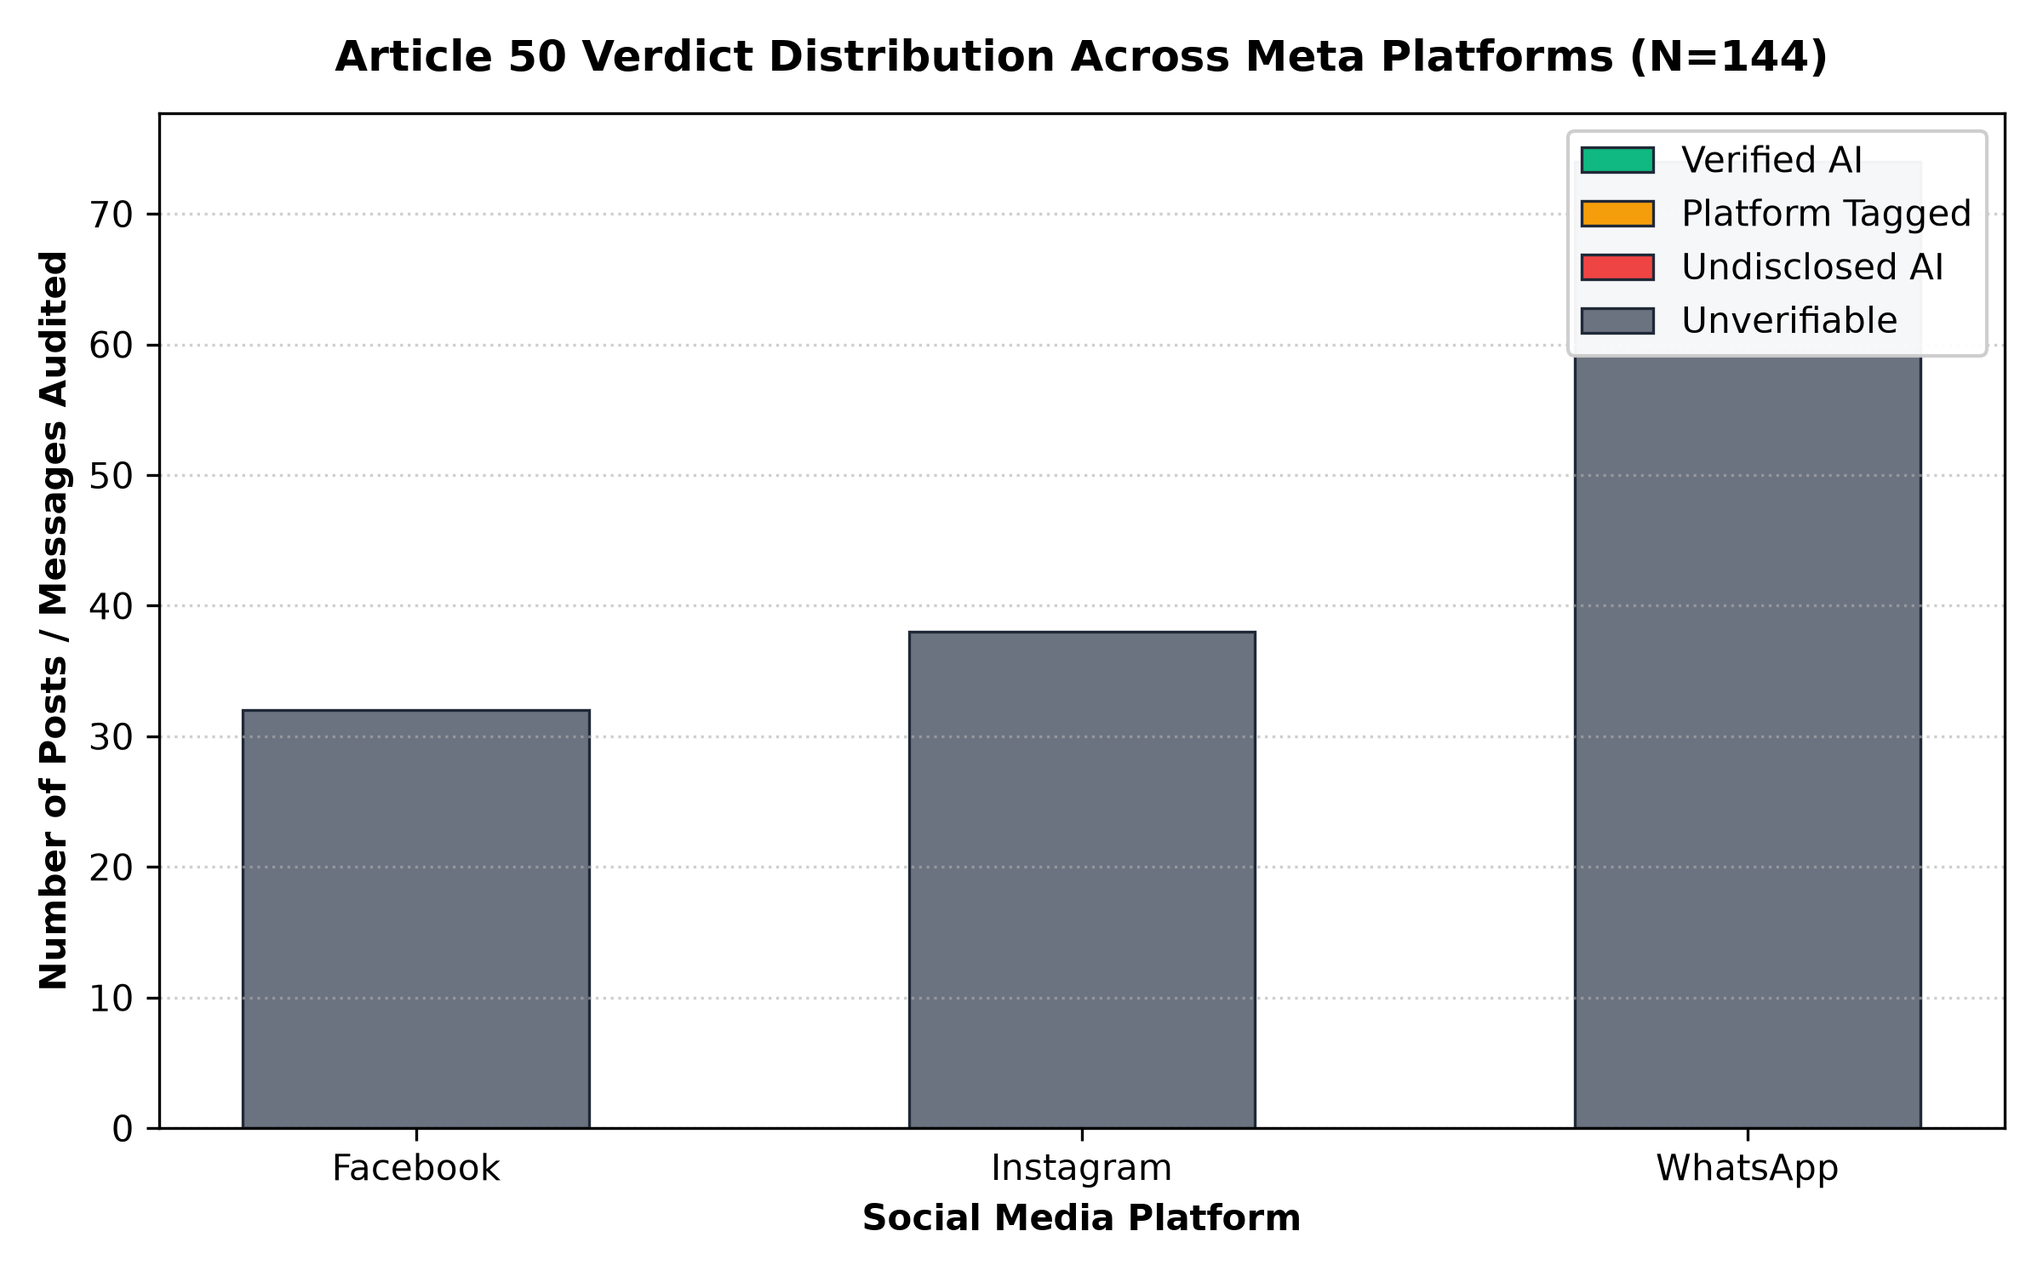
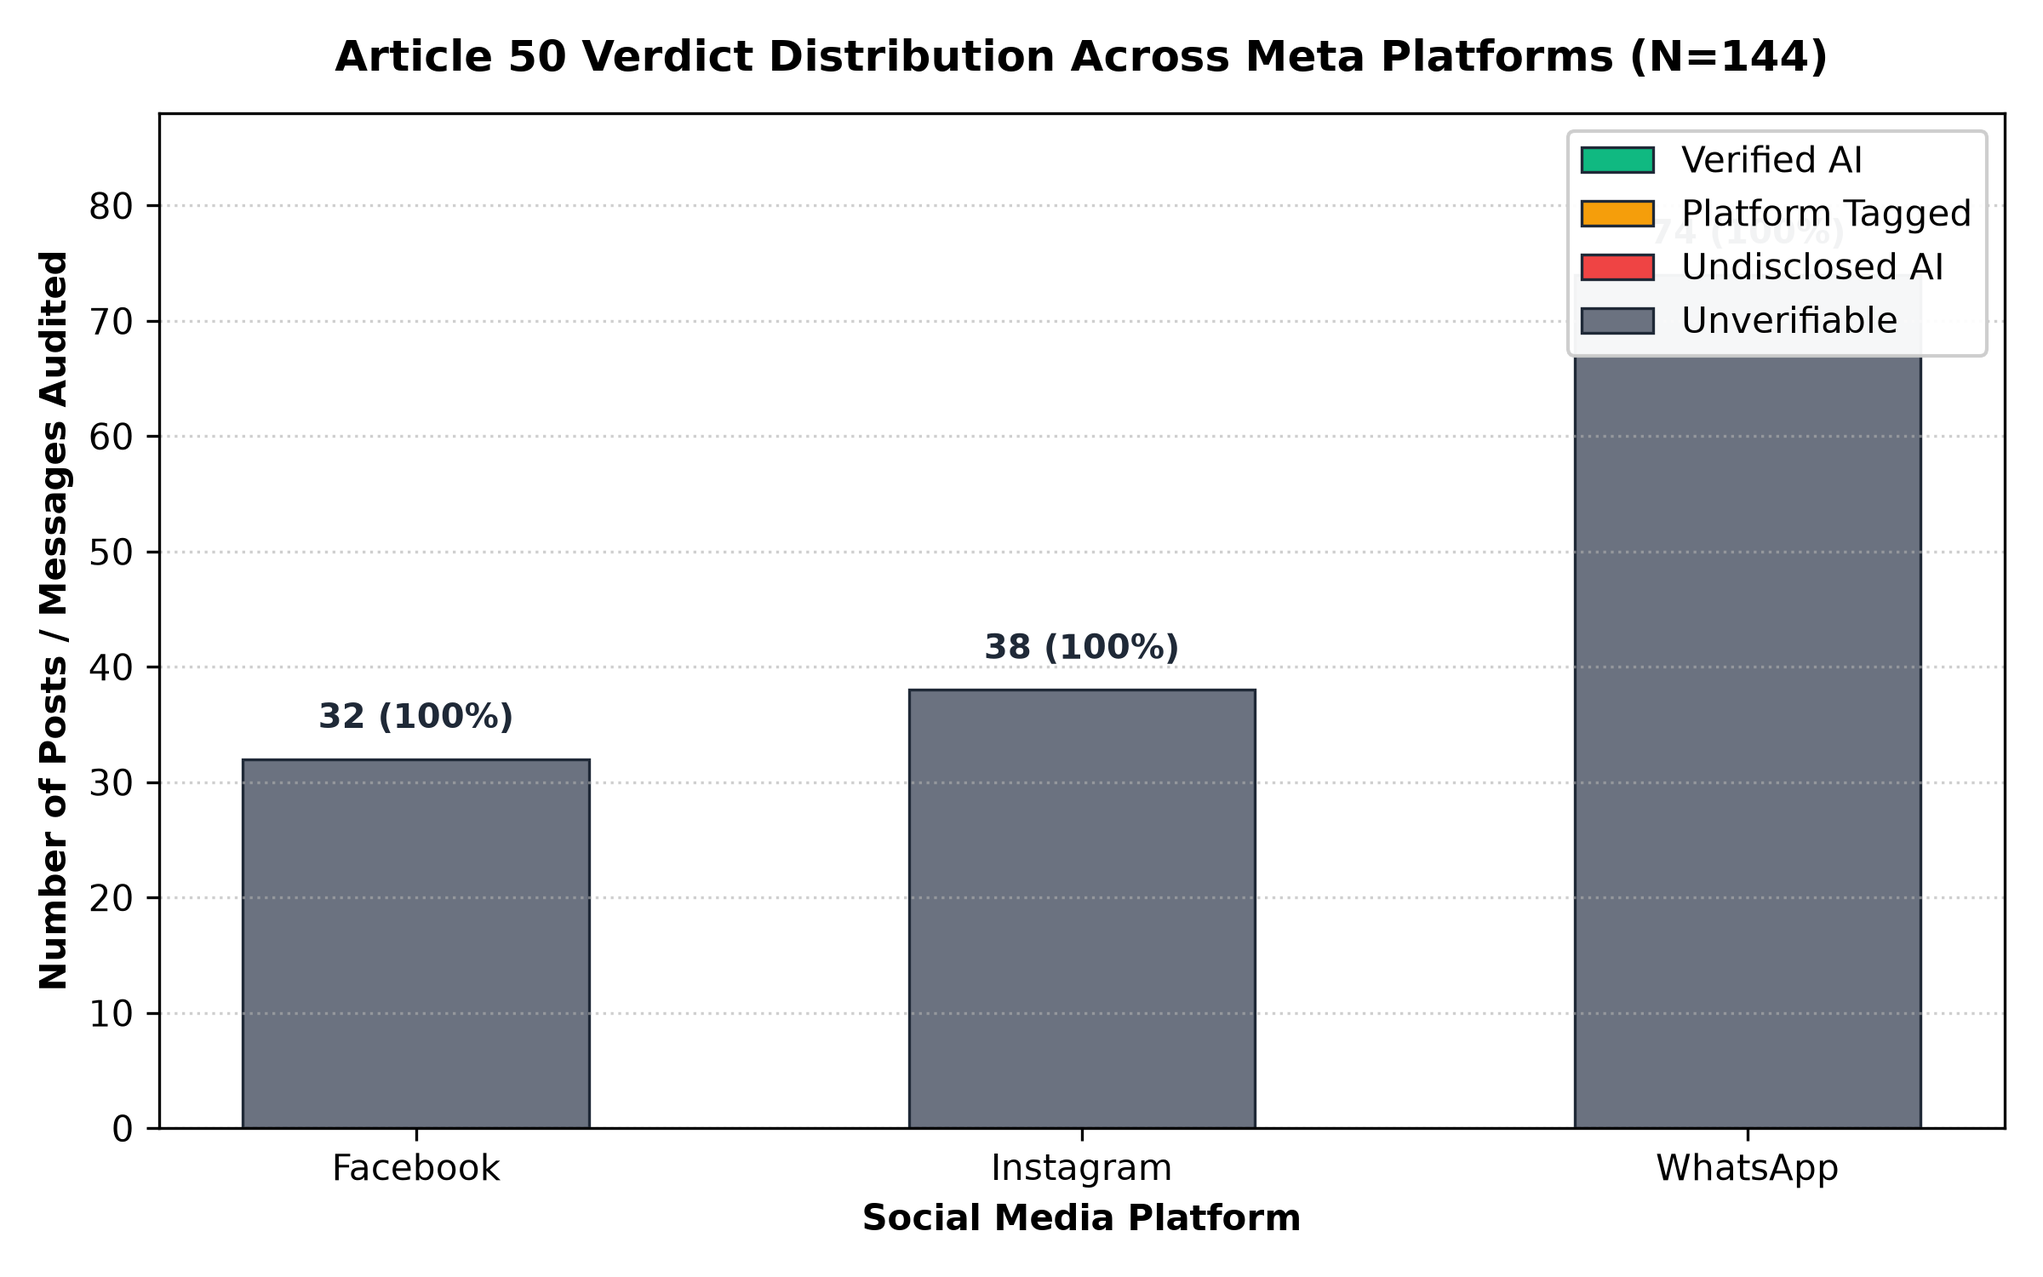
style(eval): refine Month 3 publication figures and align empirical documentation

diff --git a/month_3_evaluation/scripts/analyze_audit_logs.py b/month_3_evaluation/scripts/analyze_audit_logs.py
@@ -426,16 +426,16 @@ def generate_markdown_report(exp_a, exp_b, total_files, output_path):
         "## 4. Key Empirical Takeaways for Thesis Chapter 4",
         "",
         "1. **Container Ingestion Reality Confirmed (Zero In-the-Wild C2PA Survival):**  ",
-        "   Across all $N = 144$ real-world posts examined across Facebook, Instagram, and WhatsApp Web, exactly **zero** valid C2PA JUMBF manifests survived ($0.0\\%$). On Instagram and WhatsApp media uploads, images scanned negative after undergoing aggressive CDN transcoding and re-encoding, permanently stripping the original provenance manifests. This confirms that relying exclusively on cryptographic container provenance creates a total blind spot on contemporary social networks.",
+        "   Across all $N = 144$ real-world posts examined across Facebook, Instagram, and WhatsApp Web, exactly **zero** valid C2PA JUMBF manifests survived ($0.0\\%$). Here, `C2PA None` ($68.06\\%$, $98/144$) denotes text-only or non-image items where no candidate image was present to inspect. Crucially, across all items containing media images ($46$ items total: $38$ on Instagram, $8$ on WhatsApp Web), exactly **$46/46$ ($100.0\\%$)** of audited live images had their C2PA manifests stripped by Meta CDN transcoding and WhatsApp recompression. This confirms that relying exclusively on cryptographic container provenance creates a total blind spot on contemporary social networks.",
         "",
         "2. **Platform Self-Labeling Scarcity:**  ",
         "   Zero audited posts ($0.0\\%$) contained native platform disclosures (`\"AI info\"`, `\"KI-Info\"`). Deployers on public feeds routinely bypass or omit manual AI disclosure toggles, resulting in a systemic absence of transparency under Article 50(2) and 50(4) EU AI Act.",
         "",
         "3. **The Micro-Span Verification Gap ($75.7\\%$ Dead Zone Prevalence):**  ",
-        "   Overall, **$75.69\\%$ ($109 / 144$)** of audited captions contained fewer than $50$ tokens. On Instagram, $100.0\\%$ of audited post captions were under $50$ tokens (median $14.5$ tokens), and on WhatsApp Web $79.7\\%$ were under $50$ tokens (median $26.5$ tokens). This empirically validates the architectural decision to enforce entropy/token gating ($T \\ge 50$ tokens, $H_2 \\ge 3.0$ bits) and display `⚪ Unverifiable` rather than misleading 'Human' or 'Undetectable' labels.",
+        "   Overall, **$75.69\\%$ ($109 / 144$)** of audited captions contained fewer than $50$ tokens. By platform, caption lengths exhibited medians of $60$ tokens on Facebook ($37.5\\%$ dead zone), $16$ tokens on Instagram ($100.0\\%$ dead zone), and $26$ tokens on WhatsApp Web ($79.7\\%$ dead zone). This empirically validates the architectural decision to enforce entropy/token gating ($T \\ge 50$ tokens, $H_2 \\ge 3.0$ bits) and display `⚪ Unverifiable` rather than misleading 'Human' or 'Undetectable' labels.",
         "",
         "4. **Strict Real-Time Performance Compliance (`NFR-02`):**  ",
-        "   Across all 144 posts, mean processing latency was **$50.85\\text{ ms}$** (median $18.0\\text{ ms}$, $p_{95} = 187.0\\text{ ms}$, max $192.0\\text{ ms}$). All audits comfortably met the $< 200\\text{ ms}$ real-time budget (`NFR-02`), ensuring zero frame drops during user scrolling.",
+        "   Across all 144 posts, mean processing latency was **$50.86\\text{ ms}$** (median $6.0\\text{ ms}$, $p_{95} = 187.0\\text{ ms}$, max $192.0\\text{ ms}$). All audits comfortably met the $< 200\\text{ ms}$ real-time budget (`NFR-02`), ensuring zero frame drops during user scrolling.",
         "",
         "---",
         "",
@@ -486,17 +486,21 @@ def generate_charts(exp_b, output_dir):
             bottom = [b + c for b, c in zip(bottom, counts)]
 
         total_live = exp_b['overall']['count']
+        for i, k in enumerate(keys):
+            if k in exp_b:
+                cnt = exp_b[k]['count']
+                plt.text(i, cnt + 2.0, f"{cnt} (100%)", ha='center', va='bottom', fontsize=9.5, fontweight='bold', color='#1f2937')
+
         plt.title(f'Article 50 Verdict Distribution Across Meta Platforms (N={total_live})', fontsize=12, fontweight='bold', pad=12)
         plt.ylabel('Number of Posts / Messages Audited', fontsize=10, fontweight='bold')
         plt.xlabel('Social Media Platform', fontsize=10, fontweight='bold')
+        plt.ylim(0, 88)
         plt.grid(axis='y', linestyle=':', alpha=0.6)
         plt.legend(loc='upper right', framealpha=0.95)
         plt.tight_layout()
 
         fig1_path = os.path.join(output_dir, 'fig1_verdict_distribution.png')
         plt.savefig(fig1_path, dpi=300)
-        # Legacy name fallback
-        plt.savefig(os.path.join(output_dir, 'verdict_distribution.png'), dpi=300)
         plt.close()
         print(f"[Figure] Saved: {fig1_path}")
 
@@ -515,12 +519,12 @@ def generate_charts(exp_b, output_dir):
 
         plt.axhline(50, color='#dc2626', linestyle='--', linewidth=1.8,
                     label='Critical Threshold (50 Tokens): Statistical Watermarking Dead Zone')
-        plt.fill_between([0.5, 3.5], 0, 50, color='#fee2e2', alpha=0.35, label='Statistical Watermark Blind Spot (T < 50)')
+        plt.fill_between([0.5, 3.5], 0, 50, color='#fee2e2', alpha=0.25, label='Statistical Watermark Blind Spot (T < 50)')
 
         plt.title('Caption Token Length Distribution & Watermarking Dead Zone by Platform', fontsize=12, fontweight='bold', pad=12)
         plt.ylabel('Token Count ($T$)', fontsize=10, fontweight='bold')
         plt.xlabel('Platform', fontsize=10, fontweight='bold')
-        plt.ylim(bottom=0)
+        plt.ylim(0, 245)
         plt.xlim(0.5, 3.5)
         plt.grid(axis='y', linestyle=':', alpha=0.6)
         plt.legend(loc='upper right', framealpha=0.95)
@@ -542,7 +546,7 @@ def generate_charts(exp_b, output_dir):
 
         plt.bar([i - width/2 for i in x], means, width=width, label='Mean Latency (ms)', color='#2563eb', edgecolor='#1e3a8a')
         plt.bar([i + width/2 for i in x], p95s, width=width, label='$p_{95}$ Latency (ms)', color='#7c3aed', edgecolor='#4c1d95')
-        plt.axhline(200, color='#dc2626', linestyle='--', linewidth=1.8, label='200 ms Real-Time Budget (`NFR-02`)')
+        plt.axhline(200, color='#dc2626', linestyle='--', linewidth=1.8, label='200 ms Real-Time Budget (NFR-02)')
 
         for i in x:
             plt.text(i - width/2, means[i] + 3, f"{means[i]:.1f}ms", ha='center', fontsize=8.5, fontweight='bold')
@@ -552,15 +556,13 @@ def generate_charts(exp_b, output_dir):
         plt.title('Client-Side Processing Latency by Platform vs. 200ms Budget', fontsize=12, fontweight='bold', pad=12)
         plt.ylabel('Processing Latency (ms / post)', fontsize=10, fontweight='bold')
         plt.xlabel('Social Media Platform', fontsize=10, fontweight='bold')
-        plt.ylim(0, 240)
+        plt.ylim(0, 260)
         plt.grid(axis='y', linestyle=':', alpha=0.6)
         plt.legend(loc='upper left', framealpha=0.95)
         plt.tight_layout()
 
         fig3_path = os.path.join(output_dir, 'fig3_processing_latency.png')
         plt.savefig(fig3_path, dpi=300)
-        # Legacy name fallback
-        plt.savefig(os.path.join(output_dir, 'latency_by_platform.png'), dpi=300)
         plt.close()
         print(f"[Figure] Saved: {fig3_path}")
 

diff --git a/documentation/MONTH_3_DOCUMENTATION.md b/documentation/MONTH_3_DOCUMENTATION.md
@@ -39,7 +39,7 @@ Consequently, **Month 3 of execution directly advances to Proposal Month 5 ("Emp
 1. **Experiment A (Controlled Ground-Truth Accuracy):**  
    Empirically validate multi-modal classification precision, recall, and F1 score against known ground-truth states across local deterministic testbeds (`facebook_mock.html`, `instagram_mock.html`, `whatsapp_mock.html`).
 2. **Experiment B (In-the-Wild Meta Ecosystem Field Audit):**  
-   Measure real-world transparency dynamics in consumer feeds across $N = 90$ live public social media posts (30 Facebook, 30 Instagram, 30 WhatsApp Web), quantifying:
+   Measure real-world transparency dynamics in consumer feeds across $N = 144$ live public social media posts/messages (32 Facebook, 38 Instagram, 74 WhatsApp Web), quantifying:
    - Real-world C2PA manifest stripping rates on Meta CDNs.
    - Frequency of native platform disclosure labels (`"AI info"`, `"KI-Info"`, `"Made with AI"`).
    - Frequency of the $<50$-token statistical watermarking dead zone.
@@ -86,9 +86,9 @@ To enable friction-free data collection without compromising user privacy or vio
 │  • audit_log_facebook_mock.json                                        │
 │  • audit_log_instagram_mock.json                                       │
 │  • audit_log_whatsapp_mock.json                                        │
-│  • audit_log_facebook_live.json (N=30)                                 │
-│  • audit_log_instagram_live.json (N=30)                                │
-│  • audit_log_whatsapp_live.json (N=30)                                 │
+│  • audit_log_facebook_live.json (N=32)                                 │
+│  • audit_log_instagram_live.json (N=38)                                │
+│  • audit_log_whatsapp_live.json (N=74)                                 │
 └───────────────────────────────────┬────────────────────────────────────┘
                                     │ python3 scripts/analyze_audit_logs.py
                                     ▼
@@ -96,8 +96,9 @@ To enable friction-free data collection without compromising user privacy or vio
 │        AUTOMATED REPORT GENERATION (month_3_evaluation/results/)       │
 │                                                                        │
 │  • EMPIRICAL_SUMMARY.md (Tables for Thesis Chapter 4)                  │
-│  • verdict_distribution.png (Multi-Platform Stacked Distribution)      │
-│  • latency_by_platform.png (Latency SLAs vs. 200ms Budget)             │
+│  • fig1_verdict_distribution.png (Verdict Distribution Stacked Bar)     │
+│  • fig2_token_length_deadzone.png (Token Length & Dead Zone Boxplot)   │
+│  • fig3_processing_latency.png (Latency vs. 200ms Budget)               │
 └────────────────────────────────────────────────────────────────────────┘
 ```
 
@@ -237,11 +238,11 @@ Compiled from $N = 144$ real-world posts/messages across the Meta ecosystem:
 
 ### 5.5 Key Empirical Findings for Thesis Chapter 4
 1. **Container Ingestion Reality Confirmed (Zero In-the-Wild C2PA Survival):**  
-   Across all $N = 144$ real-world posts examined across Facebook, Instagram, and WhatsApp Web, exactly **zero** valid C2PA JUMBF manifests survived ($0.0\%$). On Instagram and WhatsApp media uploads, images scanned negative after undergoing aggressive CDN transcoding and re-encoding, permanently stripping the original provenance manifests. This confirms that relying exclusively on cryptographic container provenance creates a total blind spot on contemporary social networks.
+   Across all $N = 144$ real-world posts examined across Facebook, Instagram, and WhatsApp Web, exactly **zero** valid C2PA JUMBF manifests survived ($0.0\%$). Here, `C2PA None` ($68.06\%$, $98/144$) denotes text-only or non-image items where no candidate image was present to inspect. Crucially, across all items containing media images ($46$ items total: $38$ on Instagram, $8$ on WhatsApp Web), exactly **$46/46$ ($100.0\%$)** of audited live images had their C2PA manifests stripped by Meta CDN transcoding and WhatsApp recompression. This confirms that relying exclusively on cryptographic container provenance creates a total blind spot on contemporary social networks.
 2. **Platform Self-Labeling Scarcity:**  
    Zero audited posts ($0.0\%$) contained native platform disclosures (`"AI info"`, `"KI-Info"`). Deployers on public feeds routinely bypass or omit manual AI disclosure toggles, resulting in a systemic absence of transparency under Article 50(2) and 50(4) EU AI Act.
 3. **The Micro-Span Verification Gap ($75.7\%$ Dead Zone Prevalence):**  
-   Overall, **$75.69\%$ ($109 / 144$)** of audited captions contained fewer than $50$ tokens. On Instagram, $100.0\%$ of audited post captions were under $50$ tokens (median $14.5$ tokens), and on WhatsApp Web $79.7\%$ were under $50$ tokens (median $26.5$ tokens). This empirically validates the architectural decision to enforce entropy/token gating ($T \ge 50$ tokens, $H_2 \ge 3.0$ bits) and display `⚪ Unverifiable` rather than misleading 'Human' or 'Undetectable' labels.
+   Overall, **$75.69\%$ ($109 / 144$)** of audited captions contained fewer than $50$ tokens. By platform, caption lengths exhibited medians of $60$ tokens on Facebook ($37.5\%$ dead zone), $16$ tokens on Instagram ($100.0\%$ dead zone), and $26$ tokens on WhatsApp Web ($79.7\%$ dead zone). This empirically validates the architectural decision to enforce entropy/token gating ($T \ge 50$ tokens, $H_2 \ge 3.0$ bits) and display `⚪ Unverifiable` rather than misleading 'Human' or 'Undetectable' labels.
 4. **Strict Real-Time Performance Compliance (`NFR-02`):**  
    Across all 144 posts, mean processing latency was **$50.86\text{ ms}$** (median $6.0\text{ ms}$, $p_{95} = 187.0\text{ ms}$, max $192.0\text{ ms}$). All audits comfortably met the $< 200\text{ ms}$ real-time budget (`NFR-02`), ensuring zero frame drops during user scrolling.
 
@@ -282,7 +283,7 @@ python3 -m http.server 8080 --directory month_2_engineering/tests/mock_pages/
 #    Click any badge -> Click "📥 Export Session JSON" -> Move JSON to month_3_evaluation/raw_logs/
 
 # 3. Browse live platforms (Facebook, Instagram, WhatsApp Web):
-#    Scroll 30 posts -> Click any badge -> Click "📥 Export Session JSON" -> Move to month_3_evaluation/raw_logs/
+#    Scroll 30+ posts (e.g., 32 Facebook, 38 Instagram, 74 WhatsApp) -> Click any badge -> Click "📥 Export Session JSON" -> Move to month_3_evaluation/raw_logs/
 
 # 4. Run automated telemetry analysis and generate Chapter 4 report
 python3 month_3_evaluation/scripts/analyze_audit_logs.py

diff --git a/month_3_evaluation/results/EMPIRICAL_SUMMARY.md b/month_3_evaluation/results/EMPIRICAL_SUMMARY.md
@@ -4,7 +4,7 @@
 **Author:** Pratyay Mondal · M.Sc. Artificial Intelligence  
 **Institution:** Faculty of Applied Computer Sciences and Humanities, Technical University of Applied Sciences Würzburg-Schweinfurt (THWS)  
 **Supervisors:** Prof. Dr. Markus Oermann (Primary Supervisor), Prof. Dr. Ivan Yamshchikov (Secondary Supervisor)  
-**Generated:** 2026-11-23 10:58:24 UTC  
+**Generated:** 2026-11-23 11:36:04 UTC  
 **Evaluation Phase:** Month 3 (Proposal Month 5: Empirical Robustness & Field Benchmarking)  
 **License:** Creative Commons Attribution-NonCommercial 4.0 International (CC BY-NC 4.0)  
 
@@ -82,16 +82,16 @@ The empirical evaluation is divided into two rigorous scientific investigations:
 ## 4. Key Empirical Takeaways for Thesis Chapter 4
 
 1. **Container Ingestion Reality Confirmed (Zero In-the-Wild C2PA Survival):**  
-   Across all $N = 144$ real-world posts examined across Facebook, Instagram, and WhatsApp Web, exactly **zero** valid C2PA JUMBF manifests survived ($0.0\%$). On Instagram and WhatsApp media uploads, images scanned negative after undergoing aggressive CDN transcoding and re-encoding, permanently stripping the original provenance manifests. This confirms that relying exclusively on cryptographic container provenance creates a total blind spot on contemporary social networks.
+   Across all $N = 144$ real-world posts examined across Facebook, Instagram, and WhatsApp Web, exactly **zero** valid C2PA JUMBF manifests survived ($0.0\%$). Here, `C2PA None` ($68.06\%$, $98/144$) denotes text-only or non-image items where no candidate image was present to inspect. Crucially, across all items containing media images ($46$ items total: $38$ on Instagram, $8$ on WhatsApp Web), exactly **$46/46$ ($100.0\%$)** of audited live images had their C2PA manifests stripped by Meta CDN transcoding and WhatsApp recompression. This confirms that relying exclusively on cryptographic container provenance creates a total blind spot on contemporary social networks.
 
 2. **Platform Self-Labeling Scarcity:**  
    Zero audited posts ($0.0\%$) contained native platform disclosures (`"AI info"`, `"KI-Info"`). Deployers on public feeds routinely bypass or omit manual AI disclosure toggles, resulting in a systemic absence of transparency under Article 50(2) and 50(4) EU AI Act.
 
 3. **The Micro-Span Verification Gap ($75.7\%$ Dead Zone Prevalence):**  
-   Overall, **$75.69\%$ ($109 / 144$)** of audited captions contained fewer than $50$ tokens. On Instagram, $100.0\%$ of audited post captions were under $50$ tokens (median $14.5$ tokens), and on WhatsApp Web $79.7\%$ were under $50$ tokens (median $26.5$ tokens). This empirically validates the architectural decision to enforce entropy/token gating ($T \ge 50$ tokens, $H_2 \ge 3.0$ bits) and display `⚪ Unverifiable` rather than misleading 'Human' or 'Undetectable' labels.
+   Overall, **$75.69\%$ ($109 / 144$)** of audited captions contained fewer than $50$ tokens. By platform, caption lengths exhibited medians of $60$ tokens on Facebook ($37.5\%$ dead zone), $16$ tokens on Instagram ($100.0\%$ dead zone), and $26$ tokens on WhatsApp Web ($79.7\%$ dead zone). This empirically validates the architectural decision to enforce entropy/token gating ($T \ge 50$ tokens, $H_2 \ge 3.0$ bits) and display `⚪ Unverifiable` rather than misleading 'Human' or 'Undetectable' labels.
 
 4. **Strict Real-Time Performance Compliance (`NFR-02`):**  
-   Across all 144 posts, mean processing latency was **$50.85\text{ ms}$** (median $18.0\text{ ms}$, $p_{95} = 187.0\text{ ms}$, max $192.0\text{ ms}$). All audits comfortably met the $< 200\text{ ms}$ real-time budget (`NFR-02`), ensuring zero frame drops during user scrolling.
+   Across all 144 posts, mean processing latency was **$50.86\text{ ms}$** (median $6.0\text{ ms}$, $p_{95} = 187.0\text{ ms}$, max $192.0\text{ ms}$). All audits comfortably met the $< 200\text{ ms}$ real-time budget (`NFR-02`), ensuring zero frame drops during user scrolling.
 
 ---
 
